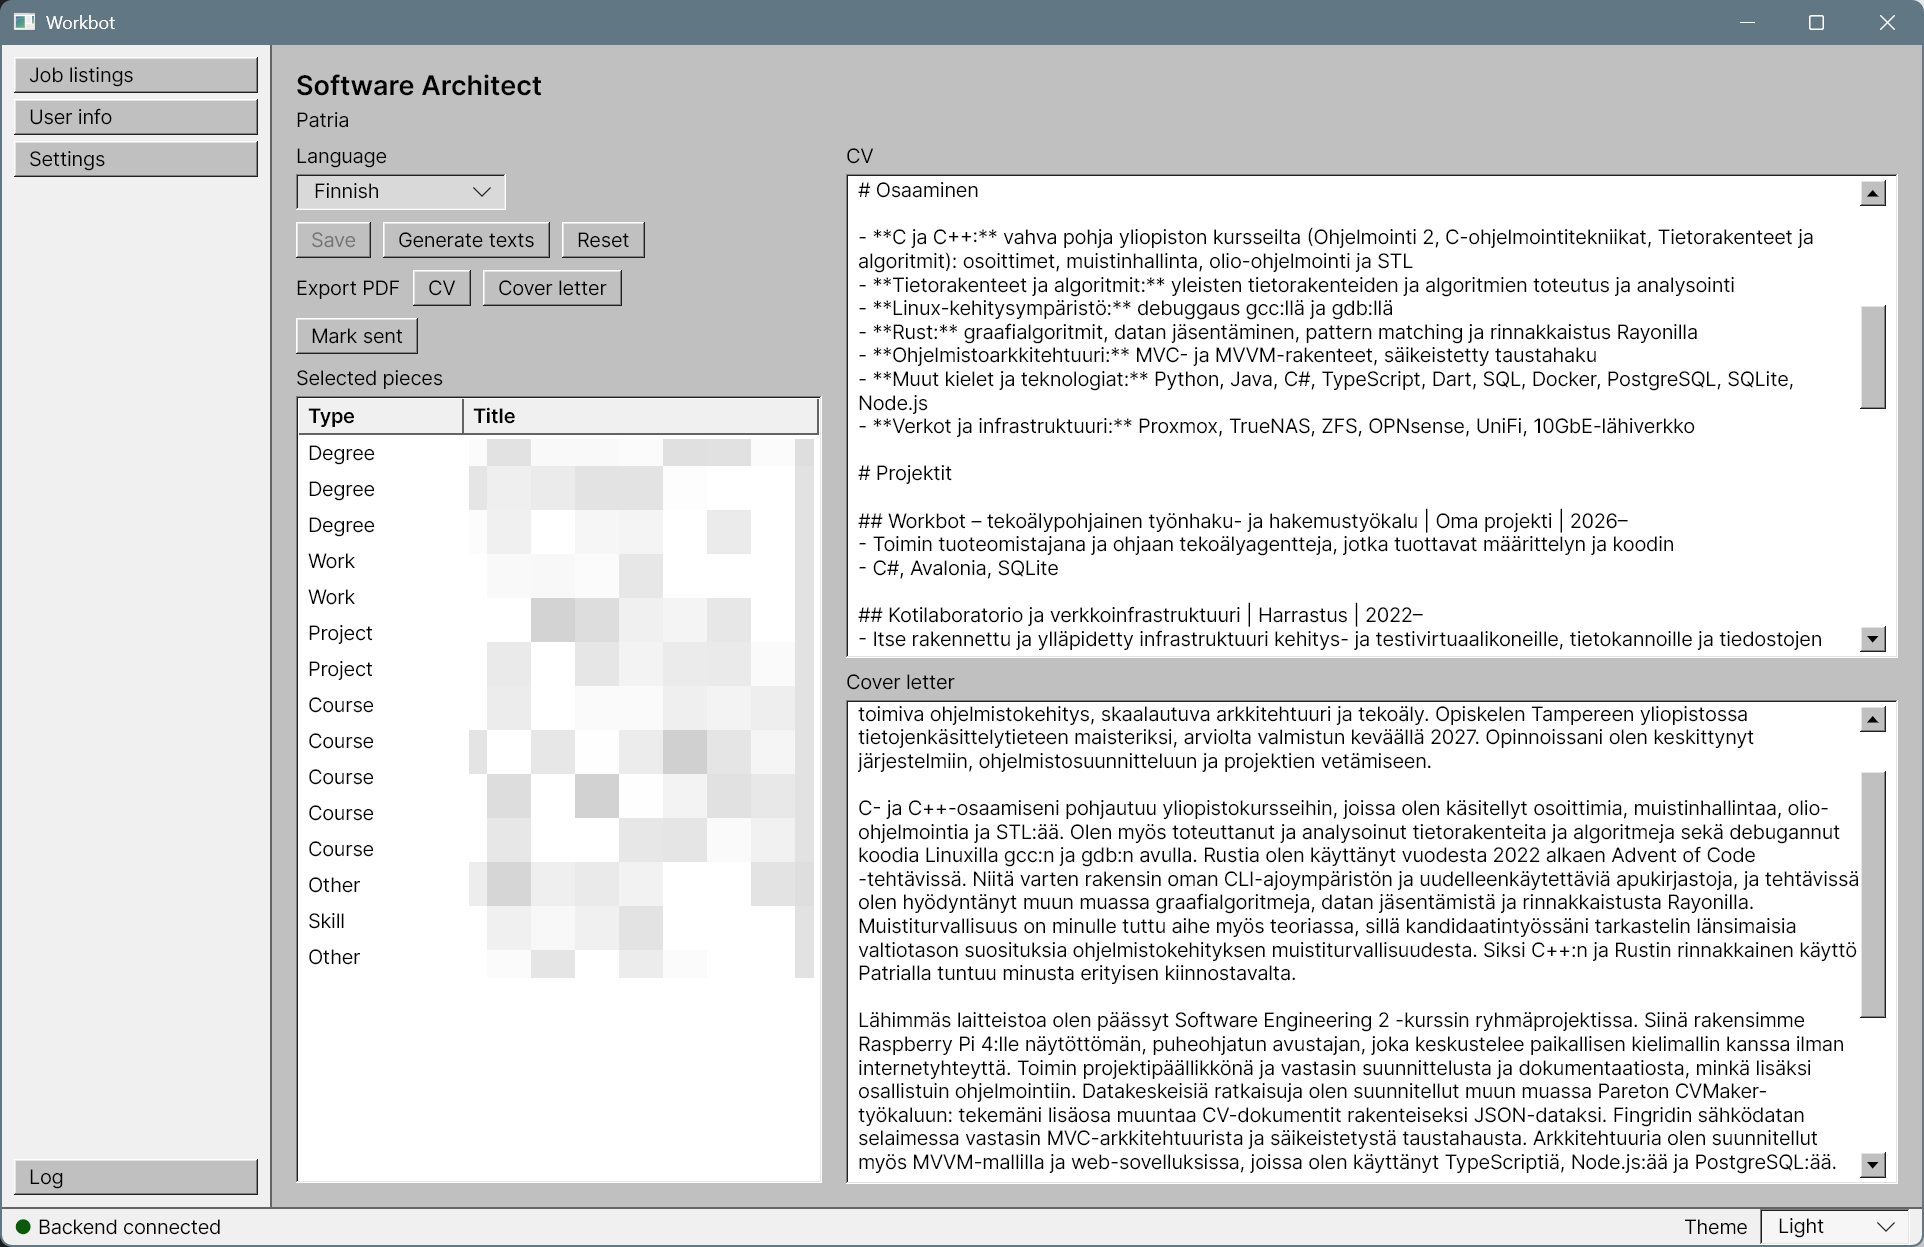
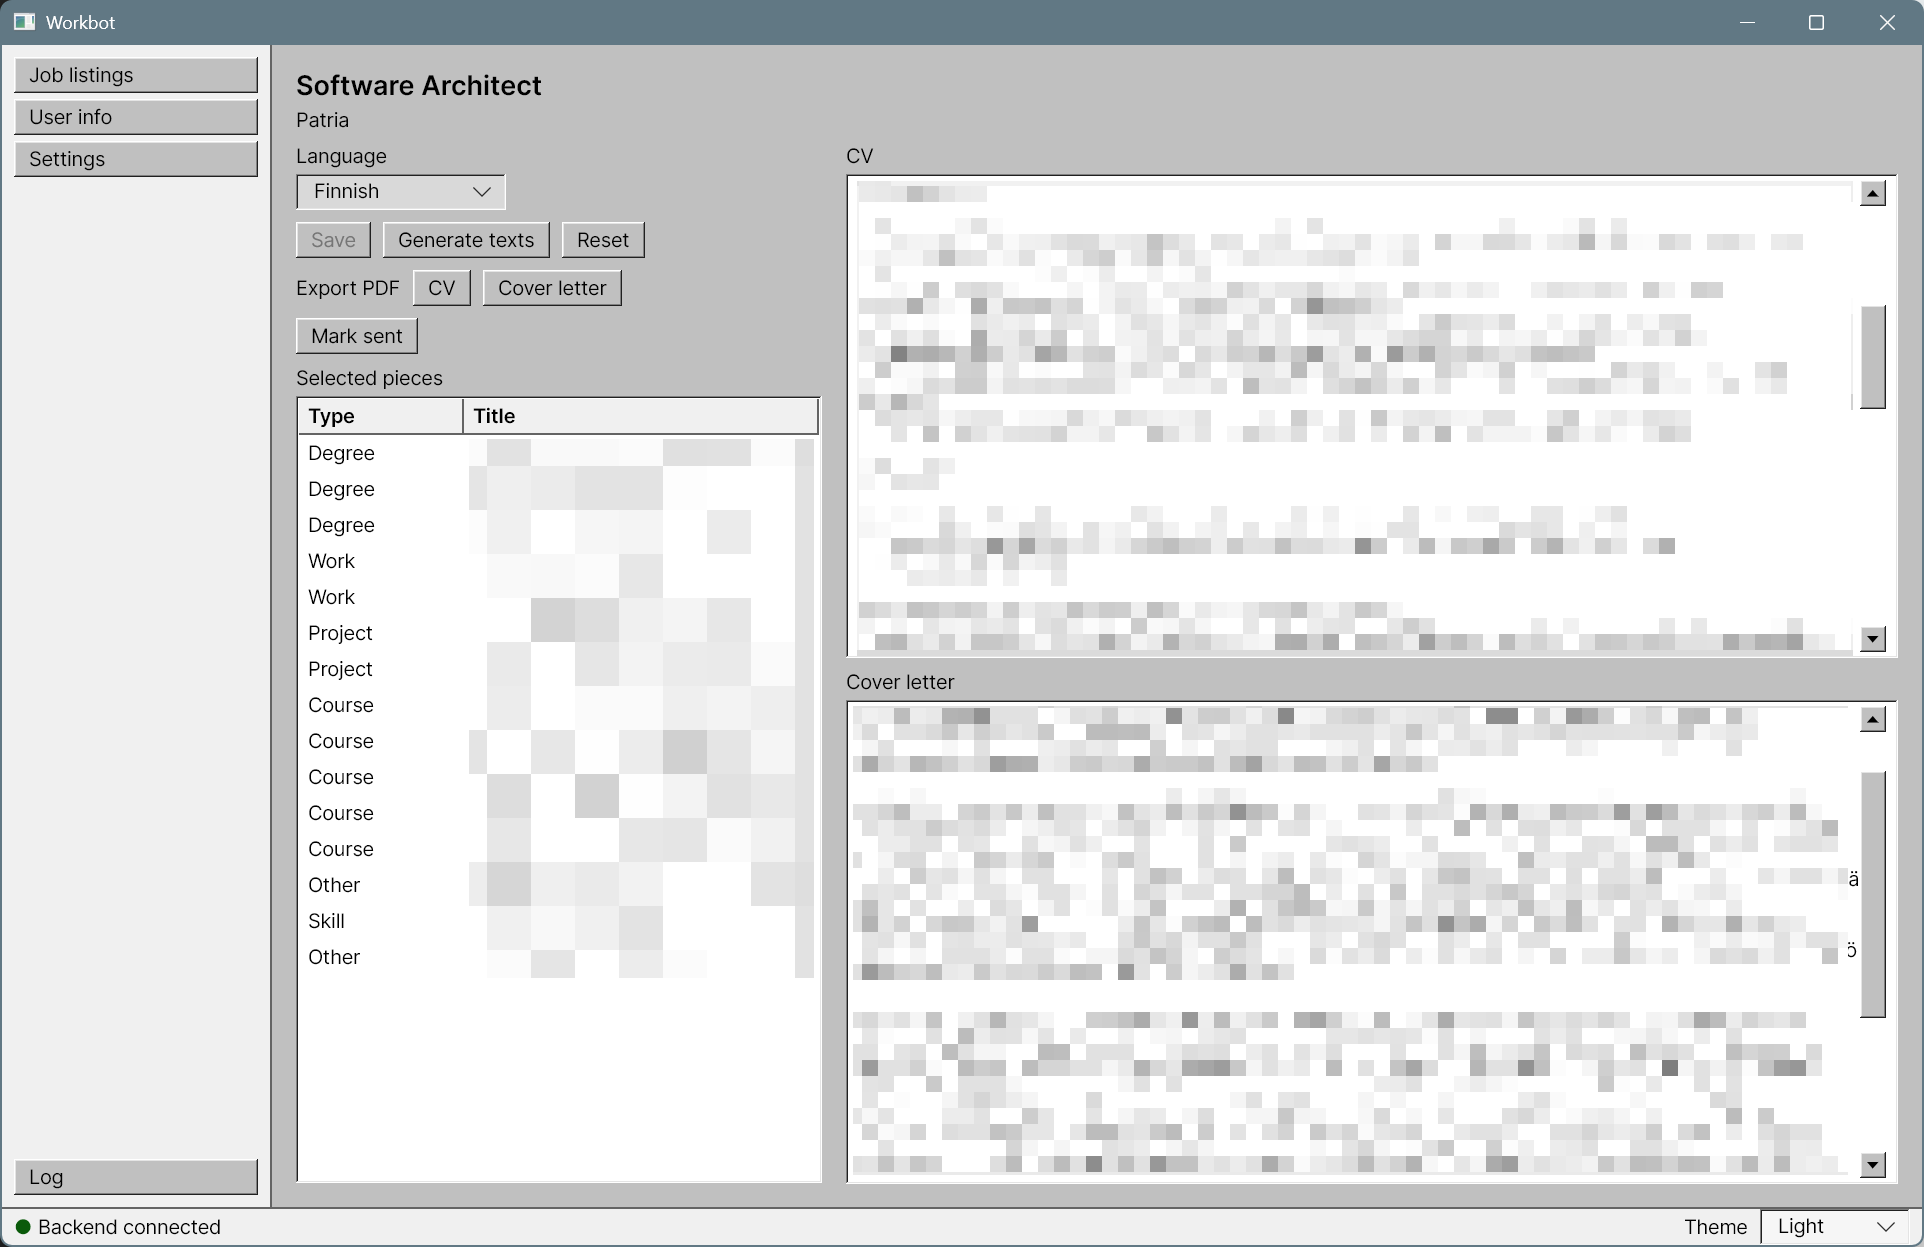
adjust img flow, add new pix to workbot

Changed region(s): [[0.4366, 0.1524, 0.9667, 0.9447], [0.9044, 0.2743, 0.9356, 0.3047]]

diff --git a/index.html b/index.html
@@ -37,19 +37,17 @@
         }
 
         .project-item {
-            display: flex;
+            display: flow-root;            /* keeps the floated images inside the box */
             background-color: #f2f2f2;
             border: 1px solid rgba(0,0,0,0.5);
             border-radius: 0.5em;
             padding: 1em;
-            flex-wrap: wrap; /* Allows stacking on mobile */
-            gap: 2rem;
-            align-items: flex-start;
         }
 
         .project-image {
-            flex: 1;
-            min-width: 250px; /* Forces stack if screen is narrow */
+            float: right;
+            width: calc(50% - 1rem);
+            margin-left: 2rem;
         }
 
         .project-image img {
@@ -89,9 +87,14 @@
             min-width: 250px;
         }
 
+        .project-text li {
+            display: list-item flow-root;
+        }
+
         .project-text h3 {
             margin-top: 0;
         }
+
 
         ul {
             padding-left: 1.2rem;
@@ -104,10 +107,11 @@
         /* Responsive tweak for very small screens */
         @media (max-width: 600px) {
             body { padding: 1rem; }
-            .project-item { gap: 1rem; }
-            .project-image, .project-text {
-                min-width: 100%;
-            }
+            .project-image {
+                float: none;
+                width: 100%;
+                margin-left: 0;
+            } 
         }
     </style>
 </head>
@@ -130,20 +134,22 @@
             <div class="project-image">
                 <a href="img/workbot.png"><img src="img/workbot.png" alt="Job ad list with filters"></a>
                 <a href="img/workbot2.png"><img src="img/workbot2.png" alt="Generated CV preview"></a>
+                <a href="img/workbot3.png"><img src="img/workbot3.png" alt="Motivation editor"></a>
             </div>
             <div class="project-text">
                 <h3>Workbot, 2026</h3>
                 <p><i>AI-assisted job hunting tool (proto)</i></p>
                 <ul>
-                    <li>Acted as a product owner for AI agents. Program is made in Claude Code with Spec-Driven Development. code, tests and CI.</li>
-                    <li>Spec written as Markdown files, compiled with Typst into a single PDF readable by both agents and humans</li>
+                    <li>Acted as a product owner for AI agents. Code, tests, CI, spec and everything else is made in Claude Code with Spec-Driven Development.</li>
+                    <li>Spec written as linted Markdown files, compiled with Typst into a single PDF readable by both agents and humans.</li>
                     <li>Agents plan and track the work through GitHub milestones and issues using the gh CLI</li> 
                     <li>Fetch new job ads, browse ads, filter and sort them</li>
                     <li>Manage companies, personal details, applications</li>  
                     <li>AI-assisted tailored CV & Cover letter generation for each job ad</li>
+                    <li>AI-assisted tailored motivation designer tool</li>
                     <li>Cross-platform desktop app (C#, Avalonia) with a separate backend, SQLite and an OpenAPI interface.</li>
-                    <li>PDF export with Typst and a custom template</li>                    
-                    <li>Planned support for using local AI models, job suitability via vector embeddings and many other things as time allows!</li>    
+                    <li>CV & cover letter PDF export with Typst and a custom template</li>                    
+                    <li>Planned support for using local AI models, job suitability via vector embeddings and many other things as time from studies allows!</li>    
                 </ul>
                 <p>Closed source, available upon request 😊</p>
             </div>
